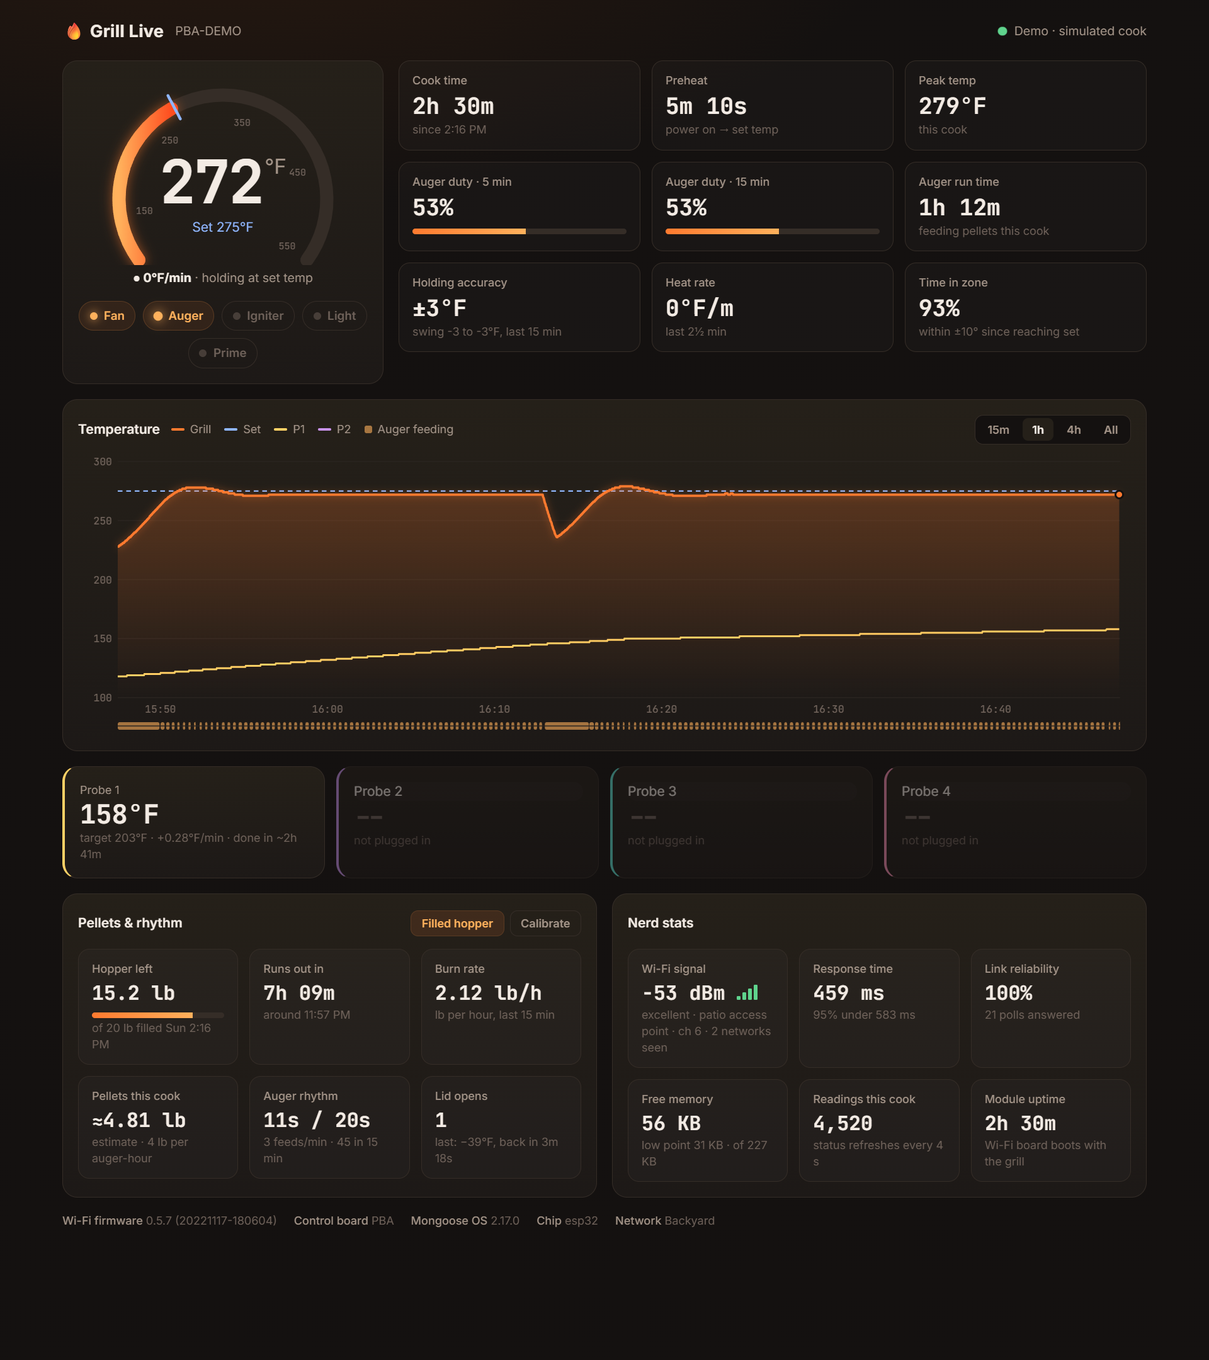
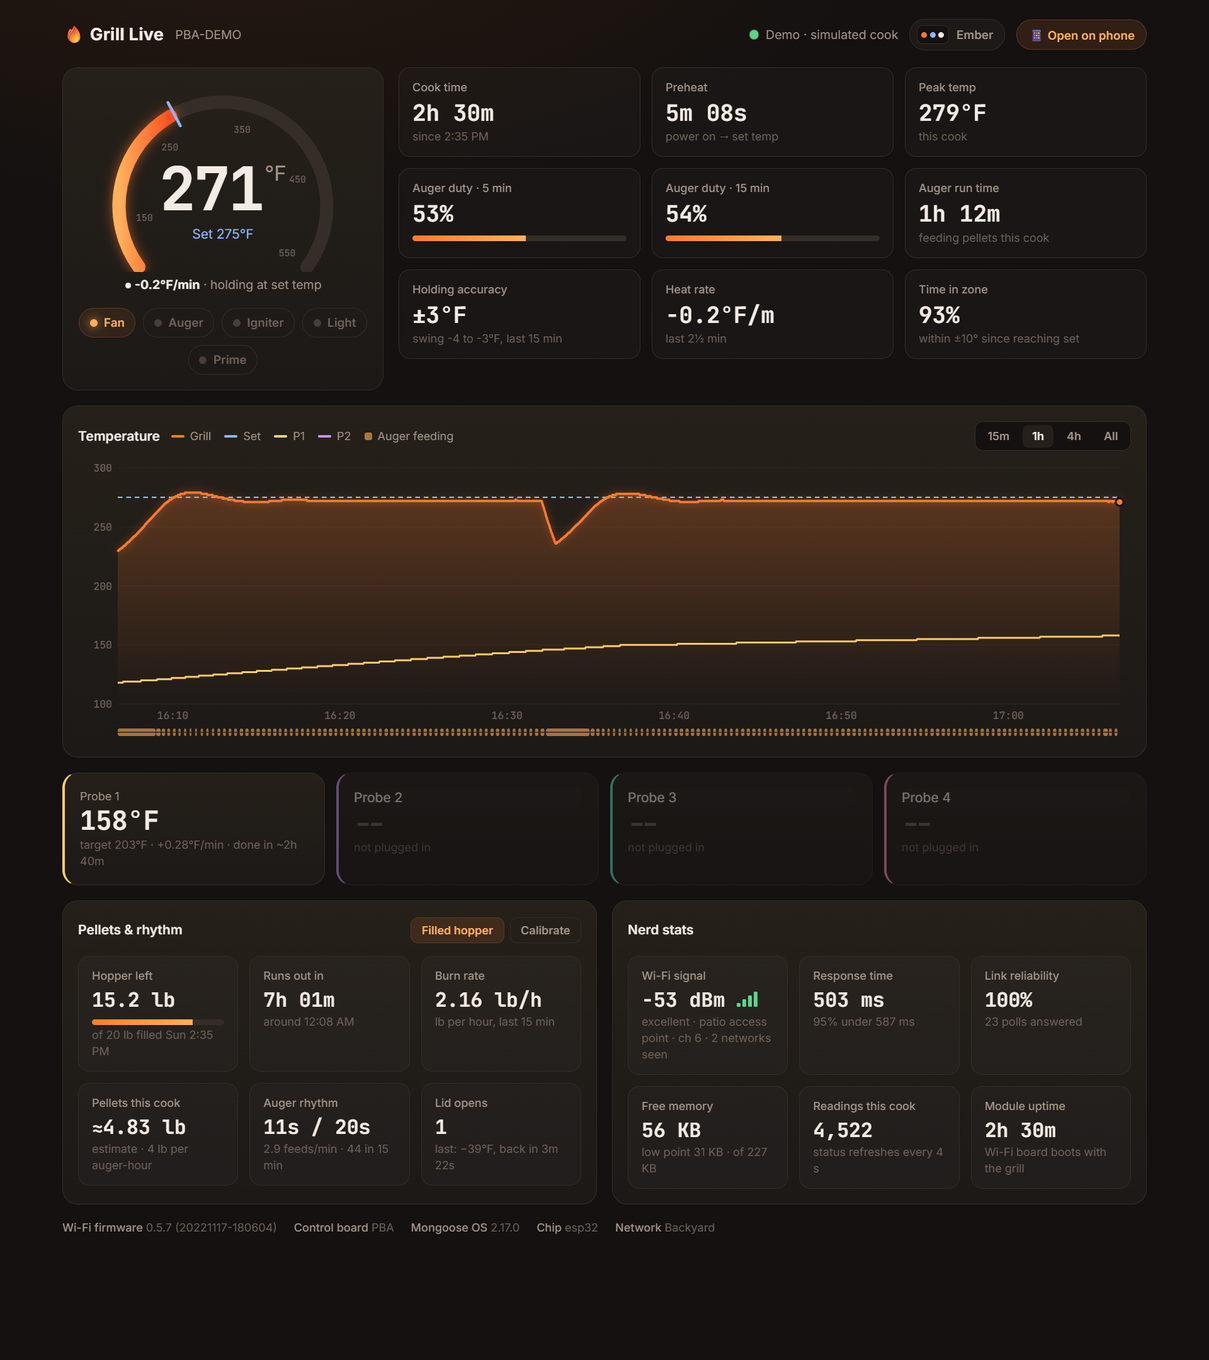
Themes: Ember, Daylight, Midnight, Hickory, Smoke or match the system
- Theme menu in the header; each device remembers its pick (?theme= works too)
- Every colour in the page now comes from theme variables
- README: themes preview image, no phone emojis, refreshed screenshots
- Don't show a "set temp in" countdown when the grill is barely moving

diff --git a/index.html b/index.html
@@ -9,25 +9,70 @@
 <meta name="apple-mobile-web-app-capable" content="yes">
 <meta name="apple-mobile-web-app-status-bar-style" content="black-translucent">
 <meta name="apple-mobile-web-app-title" content="Grill Live">
+<script>
+try {
+  const pick = new URLSearchParams(location.search).get('theme') || localStorage.getItem('grill-theme') || 'ember';
+  document.documentElement.dataset.theme = pick === 'auto' ? (matchMedia('(prefers-color-scheme: light)').matches ? 'daylight' : 'ember') : pick;
+} catch (e) {}
+</script>
 <link rel="preconnect" href="https://fonts.googleapis.com">
 <link href="https://fonts.googleapis.com/css2?family=Inter:wght@400;500;600;700&family=JetBrains+Mono:wght@500;700&display=swap" rel="stylesheet">
 <style>
-:root{
-  --bg:#141110;--panel:#1d1917;--panel2:#252019;--line:#352d27;--text:#f3ebe4;--dim:#a39488;--faint:#6f625a;
-  --ember:#ff7a2f;--ember2:#ffb15c;--set:#8fb6ff;--ok:#5fd38d;--bad:#ff5a5a;
-  --p1:#ffd166;--p2:#c792ea;--p3:#5ee0d0;--p4:#f78fb3;
+:root,[data-theme="ember"]{
+  --bg:#141110;--glow:#2a1a10;--panel:#1d1917;--panel2:#252019;--line:#352d27;--grid:#2a2420;--text:#f3ebe4;--dim:#a39488;--faint:#6f625a;
+  --ember:#ff7a2f;--ember2:#ffb15c;--ember3:#ff4d1f;--ember-rgb:255,122,47;--ember-line:#5a3a22;--on-text:#ffb15c;
+  --set:#8fb6ff;--ok:#5fd38d;--ok-rgb:95,211,141;--bad:#ff5a5a;--bad-rgb:255,90,90;--bad-line:#6b2a2a;--bad-text:#ffb4b4;
+  --p1:#ffd166;--p2:#c792ea;--p3:#5ee0d0;--p4:#f78fb3;--tile:rgba(255,255,255,.02);--scrim:rgba(10,8,7,.72);color-scheme:dark;
 }
+[data-theme="daylight"]{
+  --bg:#f5f1eb;--glow:#ffe6cf;--panel:#fbf7f1;--panel2:#fffdfa;--line:#e6ddd2;--grid:#efe8df;--text:#1d1915;--dim:#5c5149;--faint:#8e8278;
+  --ember:#e8590c;--ember2:#f59f00;--ember3:#d9480f;--ember-rgb:232,89,12;--ember-line:#f2c4a2;--on-text:#c2410c;
+  --set:#1c7ed6;--ok:#2f9e44;--ok-rgb:47,158,68;--bad:#e03131;--bad-rgb:224,49,49;--bad-line:#f1b5b5;--bad-text:#b42318;
+  --p1:#b8860b;--p2:#7048e8;--p3:#0c8599;--p4:#d6336c;--tile:rgba(60,40,20,.025);--scrim:rgba(40,30,20,.35);color-scheme:light;
+}
+[data-theme="midnight"]{
+  --bg:#0a0f1e;--glow:#13234d;--panel:#10172d;--panel2:#151d38;--line:#263152;--grid:#1a2442;--text:#e7ecff;--dim:#9ba7cb;--faint:#5f6b93;
+  --ember:#4cc9f0;--ember2:#90e0ef;--ember3:#4361ee;--ember-rgb:76,201,240;--ember-line:#1f4d6e;--on-text:#90e0ef;
+  --set:#f7b267;--ok:#6ee7b7;--ok-rgb:110,231,183;--bad:#ff6b6b;--bad-rgb:255,107,107;--bad-line:#6b2737;--bad-text:#ffb3b3;
+  --p1:#ffd166;--p2:#c792ea;--p3:#f78fb3;--p4:#a3e635;--tile:rgba(255,255,255,.02);--scrim:rgba(5,8,18,.72);color-scheme:dark;
+}
+[data-theme="hickory"]{
+  --bg:#1a120c;--glow:#3d2512;--panel:#231911;--panel2:#2c2016;--line:#45321f;--grid:#34261a;--text:#f6ead8;--dim:#c4aa89;--faint:#8b7457;
+  --ember:#e9a23b;--ember2:#f6c56f;--ember3:#c8553d;--ember-rgb:233,162,59;--ember-line:#6e4c22;--on-text:#f6c56f;
+  --set:#9cc5a1;--ok:#8fd694;--ok-rgb:143,214,148;--bad:#ef6f5e;--bad-rgb:239,111,94;--bad-line:#6e2b22;--bad-text:#ffb8ab;
+  --p1:#f28482;--p2:#a0c4ff;--p3:#84dcc6;--p4:#cdb4db;--tile:rgba(255,240,220,.02);--scrim:rgba(15,10,6,.72);color-scheme:dark;
+}
+[data-theme="smoke"]{
+  --bg:#101113;--glow:#1f2226;--panel:#17181b;--panel2:#1e2024;--line:#2f3237;--grid:#24272b;--text:#ededed;--dim:#a1a5ac;--faint:#6a6f77;
+  --ember:#ef4444;--ember2:#f87171;--ember3:#b91c1c;--ember-rgb:239,68,68;--ember-line:#5c2525;--on-text:#fca5a5;
+  --set:#93c5fd;--ok:#4ade80;--ok-rgb:74,222,128;--bad:#fbbf24;--bad-rgb:251,191,36;--bad-line:#5e4a17;--bad-text:#fde68a;
+  --p1:#fde047;--p2:#c4b5fd;--p3:#5eead4;--p4:#f9a8d4;--tile:rgba(255,255,255,.02);--scrim:rgba(8,8,10,.72);color-scheme:dark;
+}
+.theme-wrap{position:relative}
+.theme-btn{display:flex;align-items:center;gap:8px;font:600 12.5px Inter,sans-serif;padding:6px 12px 6px 7px;border-radius:999px;border:1px solid var(--line);background:var(--panel);color:var(--dim);cursor:pointer}
+.theme-menu{position:absolute;right:0;top:calc(100% + 8px);z-index:20;min-width:210px;padding:6px;border-radius:14px;border:1px solid var(--line);background:var(--panel2);box-shadow:0 14px 36px rgba(0,0,0,.35)}
+.theme-menu[hidden]{display:none}
+.theme-menu button{display:flex;align-items:center;gap:10px;width:100%;padding:8px 10px;border:0;border-radius:9px;background:none;color:var(--text);font:500 13px Inter,sans-serif;cursor:pointer;text-align:left}
+.theme-menu button:hover{background:rgba(var(--ember-rgb),.08)}
+.theme-menu button.sel{background:rgba(var(--ember-rgb),.14)}
+.theme-menu button.sel::after{content:"✓";margin-left:auto;color:var(--on-text);font-weight:700}
+.sw{display:inline-flex;align-items:center;justify-content:center;gap:3px;width:34px;height:20px;border-radius:6px;background:var(--bg);border:1px solid var(--line);flex:none}
+.sw i{width:6px;height:6px;border-radius:50%;background:var(--ember)}
+.sw i:nth-child(2){background:var(--set)}
+.sw i:nth-child(3){background:var(--text)}
+.sw.auto{background:linear-gradient(135deg,#141110 50%,#f5f1eb 50%);border-color:var(--line)}
+.sw.auto i{display:none}
 *{box-sizing:border-box}
-body{margin:0;background:radial-gradient(1200px 600px at 20% -10%,#2a1a10 0%,var(--bg) 60%) fixed,var(--bg);color:var(--text);font:14px/1.45 Inter,system-ui,sans-serif}
+body{margin:0;background:radial-gradient(1200px 600px at 20% -10%,var(--glow) 0%,var(--bg) 60%) fixed,var(--bg);color:var(--text);font:14px/1.45 Inter,system-ui,sans-serif}
 .wrap{max-width:1180px;margin:0 auto;padding:20px 16px 40px}
 header{display:flex;align-items:center;gap:12px;flex-wrap:wrap;margin-bottom:18px}
 header h1{font-size:18px;font-weight:700;margin:0;letter-spacing:.2px}
 header .sub{color:var(--dim);font-size:13px}
 .live{margin-left:auto;display:flex;align-items:center;gap:8px;color:var(--dim);font-size:13px}
 .dot{width:9px;height:9px;border-radius:50%;background:var(--faint)}
-.dot.on{background:var(--ok);box-shadow:0 0 0 0 rgba(95,211,141,.6);animation:ping 2s infinite}
+.dot.on{background:var(--ok);box-shadow:0 0 0 0 rgba(var(--ok-rgb),.6);animation:ping 2s infinite}
 .dot.off{background:var(--bad)}
-@keyframes ping{70%{box-shadow:0 0 0 8px rgba(95,211,141,0)}100%{box-shadow:0 0 0 0 rgba(95,211,141,0)}}
+@keyframes ping{70%{box-shadow:0 0 0 8px rgba(var(--ok-rgb),0)}100%{box-shadow:0 0 0 0 rgba(var(--ok-rgb),0)}}
 .card{background:linear-gradient(180deg,var(--panel2),var(--panel));border:1px solid var(--line);border-radius:16px;padding:16px}
 .grid-top{display:grid;grid-template-columns:340px 1fr;gap:16px}
 .hero{display:flex;flex-direction:column;align-items:center;justify-content:center;position:relative;min-height:330px}
@@ -41,19 +86,19 @@ header .sub{color:var(--dim);font-size:13px}
 .chips{display:flex;gap:8px;flex-wrap:wrap;justify-content:center;margin-top:14px}
 .chip{display:flex;align-items:center;gap:7px;padding:6px 11px;border-radius:999px;border:1px solid var(--line);color:var(--faint);font-size:12.5px;font-weight:600;transition:all .3s}
 .chip i{width:8px;height:8px;border-radius:50%;background:currentColor;opacity:.5}
-.chip.on{color:var(--ember2);border-color:#5a3a22;background:rgba(255,122,47,.09)}
+.chip.on{color:var(--on-text);border-color:var(--ember-line);background:rgba(var(--ember-rgb),.09)}
 .chip.on i{opacity:1;box-shadow:0 0 10px currentColor}
 .chip.on.pulse i{animation:pulse 1s infinite alternate}
 @keyframes pulse{to{transform:scale(1.5)}}
 .tiles{display:grid;grid-template-columns:repeat(3,1fr);gap:12px}
-.tile{background:rgba(255,255,255,.02);border:1px solid var(--line);border-radius:12px;padding:12px 14px;min-height:84px}
+.tile{background:var(--tile);border:1px solid var(--line);border-radius:12px;padding:12px 14px;min-height:84px}
 .tile .k{color:var(--dim);font-size:12px;font-weight:500}
 .tile .v{font:700 24px/1.2 "JetBrains Mono",monospace;margin-top:4px;white-space:nowrap}
 .tile .h{color:var(--faint);font-size:12px;margin-top:2px}
 .bar{height:6px;background:var(--line);border-radius:4px;margin-top:8px;overflow:hidden}
 .bar>div{height:100%;background:linear-gradient(90deg,var(--ember),var(--ember2));width:0;transition:width .6s}
 .right{display:flex;flex-direction:column;gap:12px}
-.errors{display:none;background:rgba(255,90,90,.1);border:1px solid #6b2a2a;color:#ffb4b4;border-radius:12px;padding:10px 14px;font-weight:600}
+.errors{display:none;background:rgba(var(--bad-rgb),.1);border:1px solid var(--bad-line);color:var(--bad-text);border-radius:12px;padding:10px 14px;font-weight:600}
 .chart-card{margin-top:16px}
 .chart-head{display:flex;align-items:center;gap:12px;flex-wrap:wrap;margin-bottom:8px}
 .chart-head h2{font-size:14px;margin:0;font-weight:600}
@@ -69,9 +114,9 @@ header .sub{color:var(--dim);font-size:13px}
 .probe{border-left:3px solid var(--line)}
 .probe.na{opacity:.45}
 .probe .v{font:700 28px/1.2 "JetBrains Mono",monospace}
-.phone-btn{font:600 12.5px Inter,sans-serif;padding:7px 12px;border-radius:999px;border:1px solid #5a3a22;background:rgba(255,122,47,.12);color:var(--ember2);cursor:pointer}
+.phone-btn{font:600 12.5px Inter,sans-serif;padding:7px 12px;border-radius:999px;border:1px solid var(--ember-line);background:rgba(var(--ember-rgb),.12);color:var(--on-text);cursor:pointer}
 .phone-btn[hidden]{display:none}
-.modal{position:fixed;inset:0;background:rgba(10,8,7,.72);backdrop-filter:blur(4px);display:flex;align-items:center;justify-content:center;padding:16px;z-index:10}
+.modal{position:fixed;inset:0;background:var(--scrim);backdrop-filter:blur(4px);display:flex;align-items:center;justify-content:center;padding:16px;z-index:10}
 .modal[hidden]{display:none}
 .modal-card{background:linear-gradient(180deg,var(--panel2),var(--panel));border:1px solid var(--line);border-radius:18px;padding:22px;max-width:340px;width:100%;text-align:center}
 .modal-card h2{margin:0 0 4px;font-size:18px}
@@ -85,10 +130,10 @@ header .sub{color:var(--dim);font-size:13px}
 .sec-head{display:flex;align-items:center;gap:10px;margin-bottom:12px;min-height:30px}
 .sec-head h2{font-size:14px;margin:0;font-weight:600}
 .acts{margin-left:auto;display:flex;gap:6px}
-.acts button{font:600 12px Inter,sans-serif;padding:6px 11px;border-radius:8px;border:1px solid #5a3a22;background:rgba(255,122,47,.12);color:var(--ember2);cursor:pointer}
+.acts button{font:600 12px Inter,sans-serif;padding:6px 11px;border-radius:8px;border:1px solid var(--ember-line);background:rgba(var(--ember-rgb),.12);color:var(--on-text);cursor:pointer}
 .acts button.ghost{background:none;border-color:var(--line);color:var(--dim)}
 .two .tile .v{font-size:21px}
-.lidnow{color:#ffb4b4;font-weight:600}
+.lidnow{color:var(--bad-text);font-weight:600}
 .foot{margin-top:16px;color:var(--faint);font-size:12px;display:flex;gap:18px;flex-wrap:wrap}
 .foot b{color:var(--dim);font-weight:500}
 @media (max-width:1000px){.two{grid-template-columns:1fr}}
@@ -101,6 +146,10 @@ header .sub{color:var(--dim);font-size:13px}
     <h1>🔥 Grill Live</h1>
     <span class="sub" id="devname">Pit Boss</span>
     <div class="live"><span class="dot" id="dot"></span><span id="livetxt">Connecting…</span></div>
+    <div class="theme-wrap">
+      <button class="theme-btn" id="theme-btn" aria-haspopup="true"><span class="sw"><i></i><i></i><i></i></span><span id="theme-name">Theme</span></button>
+      <div class="theme-menu" id="theme-menu" hidden></div>
+    </div>
     <button class="phone-btn" id="phone-btn" hidden>📱 Open on phone</button>
   </header>
 
@@ -196,6 +245,7 @@ header .sub{color:var(--dim);font-size:13px}
 
 <script>
 const $ = id => document.getElementById(id);
+const C = name => getComputedStyle(document.documentElement).getPropertyValue('--' + name).trim();
 const PROBE_COLORS = {p1:'var(--p1)',p2:'var(--p2)',p3:'var(--p3)',p4:'var(--p4)'};
 let hist = [], lastT = 0, range = 3600, state = null;
 
@@ -215,16 +265,16 @@ function arc(cx,cy,r,a0,a1){
 function drawGauge(g, s){
   const min=100, max=550, a0=Math.PI*0.8, a1=Math.PI*2.2;
   const ang = v => a0 + (Math.min(max,Math.max(min,v))-min)/(max-min)*(a1-a0);
-  let svg = `<defs><linearGradient id="gg" x1="0" x2="1"><stop offset="0" stop-color="#ffb15c"/><stop offset="1" stop-color="#ff4d1f"/></linearGradient></defs>`;
-  svg += `<path d="${arc(140,130,110,a0,a1)}" stroke="#352d27" stroke-width="14" fill="none" stroke-linecap="round"/>`;
-  if(g!=null) svg += `<path d="${arc(140,130,110,a0,ang(g))}" stroke="url(#gg)" stroke-width="14" fill="none" stroke-linecap="round" style="filter:drop-shadow(0 0 6px rgba(255,122,47,.55))"/>`;
+  let svg = `<defs><linearGradient id="gg" x1="0" x2="1"><stop offset="0" stop-color="${C('ember2')}"/><stop offset="1" stop-color="${C('ember3')}"/></linearGradient></defs>`;
+  svg += `<path d="${arc(140,130,110,a0,a1)}" stroke="${C('line')}" stroke-width="14" fill="none" stroke-linecap="round"/>`;
+  if(g!=null) svg += `<path d="${arc(140,130,110,a0,ang(g))}" stroke="url(#gg)" stroke-width="14" fill="none" stroke-linecap="round" style="filter:drop-shadow(0 0 6px rgba(${C('ember-rgb')},.55))"/>`;
   if(s){
     const a = ang(s), x0=140+96*Math.cos(a), y0=130+96*Math.sin(a), x1=140+124*Math.cos(a), y1=130+124*Math.sin(a);
-    svg += `<line x1="${x0}" y1="${y0}" x2="${x1}" y2="${y1}" stroke="#8fb6ff" stroke-width="3" stroke-linecap="round"/>`;
+    svg += `<line x1="${x0}" y1="${y0}" x2="${x1}" y2="${y1}" stroke="${C('set')}" stroke-width="3" stroke-linecap="round"/>`;
   }
   for(const v of [150,250,350,450,550]){
     const a = ang(v);
-    svg += `<text x="${140+84*Math.cos(a)}" y="${130+84*Math.sin(a)+4}" fill="#6f625a" font-size="10" font-family="JetBrains Mono" text-anchor="middle">${v}</text>`;
+    svg += `<text x="${140+84*Math.cos(a)}" y="${130+84*Math.sin(a)+4}" fill="${C('faint')}" font-size="10" font-family="JetBrains Mono" text-anchor="middle">${v}</text>`;
   }
   $('gauge').innerHTML = svg;
 }
@@ -242,7 +292,7 @@ function drawChart(){
   lo = Math.floor((lo-10)/50)*50; hi = Math.ceil((hi+10)/50)*50;
   const x = t => L + (t-t0)/(t1-t0)*(W-L-R), y = v => T + (1-(v-lo)/(hi-lo))*(H-T-B);
   let svg = '';
-  for(let v=lo; v<=hi; v+=50) svg += `<line x1="${L}" x2="${W-R}" y1="${y(v)}" y2="${y(v)}" stroke="#2a2420"/><text x="${L-6}" y="${y(v)+4}" text-anchor="end">${v}</text>`;
+  for(let v=lo; v<=hi; v+=50) svg += `<line x1="${L}" x2="${W-R}" y1="${y(v)}" y2="${y(v)}" stroke="${C('grid')}"/><text x="${L-6}" y="${y(v)+4}" text-anchor="end">${v}</text>`;
   const span = t1-t0, step = span>7200?3600:span>1800?600:span>600?300:60;
   for(let t=Math.ceil(t0/step)*step; t<=t1; t+=step){
     const d = new Date(t*1000);
@@ -250,10 +300,10 @@ function drawChart(){
   }
   const stripY = H-14;
   let run = null;
-  const flush = (end) => { if(run!=null) svg += `<rect x="${x(run)}" y="${stripY}" width="${Math.max(1.5,x(end)-x(run))}" height="8" rx="2" fill="#ffb15c" opacity=".6"/>`; run=null; };
+  const flush = (end) => { if(run!=null) svg += `<rect x="${x(run)}" y="${stripY}" width="${Math.max(1.5,x(end)-x(run))}" height="8" rx="2" fill="${C('ember2')}" opacity=".6"/>`; run=null; };
   for(let i=0;i<rows.length;i++){ const r=rows[i]; if(r.auger && run==null) run=r.t; if(!r.auger && run!=null) flush(r.t); }
   flush(rows[rows.length-1].t);
-  svg += `<line x1="${L}" x2="${W-R}" y1="${stripY+4}" y2="${stripY+4}" stroke="#2a2420"/>`;
+  svg += `<line x1="${L}" x2="${W-R}" y1="${stripY+4}" y2="${stripY+4}" stroke="${C('grid')}"/>`;
   const line = (k, color, extra='') => {
     let d='', pen=false, prev=null;
     for(const r of rows){
@@ -263,15 +313,15 @@ function drawChart(){
     }
     if(d) svg += `<path d="${d}" fill="none" stroke="${color}" ${extra}/>`;
   };
-  line('set','#8fb6ff','stroke-width="1.5" stroke-dasharray="5 4"');
-  for(const k of ['p1','p2','p3','p4']) line(k, getComputedStyle(document.documentElement).getPropertyValue('--'+k), 'stroke-width="2"');
+  line('set',C('set'),'stroke-width="1.5" stroke-dasharray="5 4"');
+  for(const k of ['p1','p2','p3','p4']) line(k, C(k), 'stroke-width="2"');
   const last = rows[rows.length-1];
   let area = '';
   { let d='',first=null,lastx=null; for(const r of rows) if(r.grill!=null){ const X=x(r.t).toFixed(1); d += (first==null?'M':'L')+X+' '+y(r.grill).toFixed(1); if(first==null) first=X; lastx=X; }
     if(d) area = `<path d="${d} L${lastx} ${H-B} L${first} ${H-B}Z" fill="url(#ga)"/>`; }
-  svg = `<defs><linearGradient id="ga" x1="0" y1="0" x2="0" y2="1"><stop offset="0" stop-color="#ff7a2f" stop-opacity=".25"/><stop offset="1" stop-color="#ff7a2f" stop-opacity="0"/></linearGradient></defs>` + svg + area;
-  line('grill','#ff7a2f','stroke-width="2.5" stroke-linejoin="round" style="filter:drop-shadow(0 0 4px rgba(255,122,47,.5))"');
-  if(last.grill!=null) svg += `<circle cx="${x(last.t)}" cy="${y(last.grill)}" r="4" fill="#ff7a2f" stroke="#141110" stroke-width="2"/>`;
+  svg = `<defs><linearGradient id="ga" x1="0" y1="0" x2="0" y2="1"><stop offset="0" stop-color="${C('ember')}" stop-opacity=".25"/><stop offset="1" stop-color="${C('ember')}" stop-opacity="0"/></linearGradient></defs>` + svg + area;
+  line('grill',C('ember'),`stroke-width="2.5" stroke-linejoin="round" style="filter:drop-shadow(0 0 4px rgba(${C('ember-rgb')},.5))"`);
+  if(last.grill!=null) svg += `<circle cx="${x(last.t)}" cy="${y(last.grill)}" r="4" fill="${C('ember')}" stroke="${C('bg')}" stroke-width="2"/>`;
   el.innerHTML = svg;
 }
 
@@ -353,7 +403,7 @@ function renderExtras(s, d, u){
   const w = d.wifi || {};
   $('n-rssi').textContent = w.rssi!=null ? w.rssi + ' dBm' : '--';
   const lvl = w.rssi==null ? 0 : w.rssi >= -55 ? 4 : w.rssi >= -65 ? 3 : w.rssi >= -75 ? 2 : 1;
-  $('n-bars').innerHTML = [0,1,2,3].map(i => `<rect x="${i*6}" y="${12-i*4}" width="4" height="${4+i*4}" rx="1" fill="${i<lvl?'#5fd38d':'#352d27'}"/>`).join('');
+  $('n-bars').innerHTML = [0,1,2,3].map(i => `<rect x="${i*6}" y="${12-i*4}" width="4" height="${4+i*4}" rx="1" fill="${i<lvl?C('ok'):C('line')}"/>`).join('');
   $('n-rssi-h').textContent = w.rssi!=null ? `${['','weak','fair','good','excellent'][lvl]} · ${w.name || w.bssid} · ch ${w.channel} · ${w.seen} networks seen` : 'first scan pending';
   const L = d.link || {};
   $('n-rtt').textContent = L.rttAvg!=null ? L.rttAvg + ' ms' : '--';
@@ -396,6 +446,32 @@ async function tick(){
   }
 }
 
+const THEMES = [['ember', 'Ember'], ['daylight', 'Daylight'], ['midnight', 'Midnight'], ['hickory', 'Hickory'], ['smoke', 'Smoke'], ['auto', 'Match system']];
+let themeChoice = 'ember';
+try { themeChoice = new URLSearchParams(location.search).get('theme') || localStorage.getItem('grill-theme') || 'ember'; } catch (e) {}
+const systemLight = matchMedia('(prefers-color-scheme: light)');
+
+function applyTheme(choice, save){
+  if(!THEMES.some(t => t[0] === choice)) choice = 'ember';
+  themeChoice = choice;
+  document.documentElement.dataset.theme = choice === 'auto' ? (systemLight.matches ? 'daylight' : 'ember') : choice;
+  if(save){ try { localStorage.setItem('grill-theme', choice); } catch (e) {} }
+  $('theme-name').textContent = THEMES.find(t => t[0] === choice)[1];
+  document.querySelector('meta[name=theme-color]').content = C('bg');
+  $('theme-menu').innerHTML = THEMES.map(([id, label]) =>
+    `<button data-pick="${id}" class="${id === choice ? 'sel' : ''}"><span class="sw${id === 'auto' ? ' auto' : ''}" ${id === 'auto' ? '' : `data-theme="${id}"`}><i></i><i></i><i></i></span>${label}</button>`).join('');
+  if(state) render(); else drawGauge(null, null);
+}
+$('theme-btn').addEventListener('click', e => { e.stopPropagation(); $('theme-menu').hidden = !$('theme-menu').hidden; });
+$('theme-menu').addEventListener('click', e => {
+  const b = e.target.closest('button[data-pick]'); if(!b) return;
+  applyTheme(b.dataset.pick, true);
+  $('theme-menu').hidden = true;
+});
+document.addEventListener('click', e => { if(!e.target.closest('.theme-wrap')) $('theme-menu').hidden = true; });
+systemLight.addEventListener('change', () => { if(themeChoice === 'auto') applyTheme('auto'); });
+applyTheme(themeChoice);
+
 $('phone-btn').addEventListener('click', () => {
   $('phone-qr').src = '/phone.svg';
   $('phone-url').textContent = state.phoneUrl;
@@ -404,7 +480,7 @@ $('phone-btn').addEventListener('click', () => {
 const closePhone = () => { $('phone-modal').hidden = true; };
 $('phone-close').addEventListener('click', closePhone);
 $('phone-modal').addEventListener('click', e => { if(e.target === $('phone-modal')) closePhone(); });
-document.addEventListener('keydown', e => { if(e.key === 'Escape') closePhone(); });
+document.addEventListener('keydown', e => { if(e.key === 'Escape'){ closePhone(); $('theme-menu').hidden = true; } });
 
 $('ranges').addEventListener('click', e => {
   const b = e.target.closest('button'); if(!b) return;

diff --git a/server.py b/server.py
@@ -500,7 +500,7 @@ def derived():
     rate = slope_per_min(win(150), "grill")
     out["heatRate"] = None if rate is None else round(rate, 1)
     g, s = cur.get("grill"), cur.get("set")
-    if g is not None and s and rate and abs(s - g) > 3 and (s - g) * rate > 0:
+    if g is not None and s and rate and abs(rate) >= 0.5 and abs(s - g) > 3 and (s - g) * rate > 0:
         out["etaSet"] = round((s - g) / rate * 60)
 
     reached = None
@@ -677,8 +677,7 @@ def main():
                 print("  Scan this with your phone's camera:\n", flush=True)
                 print(qr.to_terminal(cfg["phoneUrl"]) + "\n", flush=True)
             except UnicodeEncodeError:
-                print("  (Open the dashboard on this computer and tap 📱 for a QR code.)\n".encode(
-                    sys.stdout.encoding or "ascii", "replace").decode(sys.stdout.encoding or "ascii"), flush=True)
+                print("  (Open the dashboard on this computer and tap Open on phone for a QR code.)\n", flush=True)
     server.serve_forever()
 
 

diff --git a/README.md b/README.md
@@ -17,9 +17,16 @@
 - **Auger rhythm:** how long each feed lasts and how often it comes, plus duty over the last 5 and 15 minutes
 - **Lid-open detection:** each sudden drop at a steady set temp, how far it fell and how long it took to recover
 - **Nerd stats:** the grill's Wi-Fi signal (dBm) and which access point it's on, response time, link reliability and ESP32 free memory
+- **Themes:** Ember, Daylight (high contrast for bright sun), Midnight, Hickory and Smoke, or match your phone's light or dark mode. Each phone remembers its own pick
 - **Logging:** every reading goes to a daily CSV in `logs/`, so each cook is kept
 
 <img src="docs/phone.png" alt="Grill Live on a phone" width="300">
+
+### Themes
+
+Pick one from the **Theme** menu in the top corner: Ember, Daylight, Midnight, Hickory or Smoke. **Match system** follows your device's light or dark mode.
+
+![Ember, Daylight, Midnight, Hickory and Smoke themes](docs/themes.png)
 
 ## Quick start
 
@@ -33,7 +40,7 @@ python server.py
 
 Switch the grill on first. With no address given, Grill Live searches your network for the grill (one quick request per address) and remembers it for next time.
 
-**📱 On your phone:** scan the QR code that appears in the terminal with your phone's camera. On your computer, open **http://localhost:8880** and tap **📱 Open on phone** for the same code. Your phone just needs to be on the same Wi-Fi. Once it's open, use **Add to Home Screen** to keep it one tap away.
+**On your phone:** scan the QR code that appears in the terminal with your phone's camera. On your computer, open **http://localhost:8880** and tap **Open on phone** for the same code. Your phone just needs to be on the same Wi-Fi. Once it's open, use **Add to Home Screen** to keep it one tap away.
 
 > The first time you run it, Windows or macOS may ask whether Python can accept connections on your network. Click **Allow** (private networks), or your phone won't be able to connect.
 
